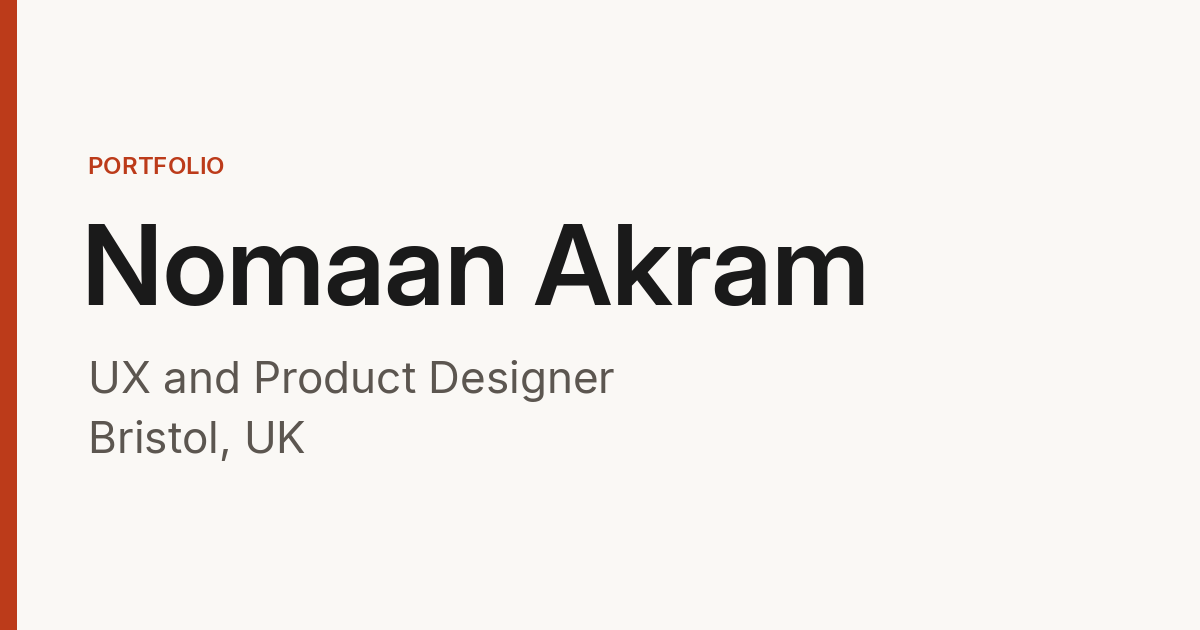
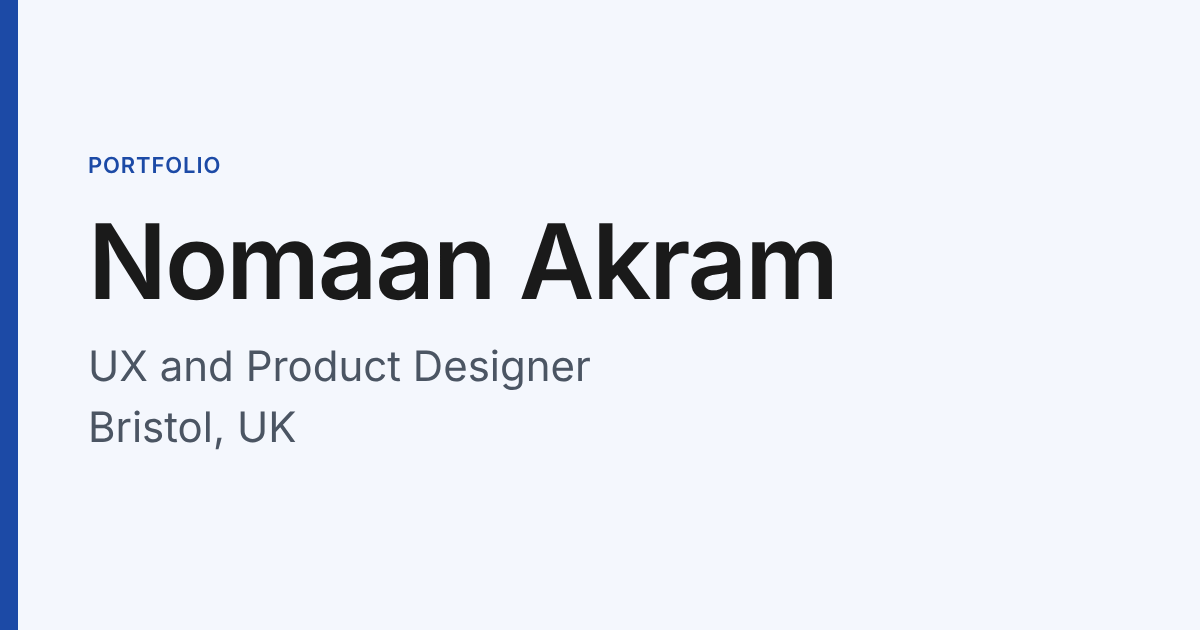
site-2-01: switch site palette from rust to blue

diff --git a/src/styles/tokens.css b/src/styles/tokens.css
@@ -1,15 +1,15 @@
 :root {
-  /* Colour */
+  /* Colour (blue, from the D2D app. Changed from rust in site-2-01) */
   --color-bg: #ffffff;
-  --color-surface: #faf8f5;        /* warm off-white for cards and sections */
-  --color-text: #1a1a1a;           /* 17.4:1 on bg */
-  --color-text-muted: #5c5650;     /* 7.24:1 on bg, 6.83:1 on surface */
-  --color-accent: #bc3b1a;         /* 5.56:1 on bg, 5.24:1 on surface */
-  --color-accent-strong: #9a2f14;  /* hover/active, 7.52:1 on bg */
-  --color-on-accent: #ffffff;      /* text on accent fill, 5.56:1 */
-  --color-border: #e5e1da;         /* decorative dividers only */
-  --color-border-strong: #8a847c;  /* UI boundaries that must be seen, 3.7:1 */
-  --color-focus: #bc3b1a;
+  --color-surface: #f4f7fd;        /* cool off-white for cards and sections */
+  --color-text: #1a1a1a;           /* 17.4:1 on bg, 16.2:1 on surface */
+  --color-text-muted: #4b5563;     /* 7.56:1 on bg, 7.05:1 on surface */
+  --color-accent: #1c4aa6;         /* 8.15:1 on bg, 7.59:1 on surface */
+  --color-accent-strong: #163b85;  /* hover/active, 10.5:1 on bg */
+  --color-on-accent: #ffffff;      /* text on accent fill, 8.15:1 */
+  --color-border: #dce3f0;         /* decorative dividers only */
+  --color-border-strong: #7c8597;  /* UI boundaries that must be seen, 3.7:1 on bg, 3.4:1 on surface */
+  --color-focus: #1c4aa6;
 
   /* Type */
   --font-sans: 'Inter', ui-sans-serif, system-ui, -apple-system, 'Segoe UI', Roboto, sans-serif;

diff --git a/docs/CLAUDE-HANDOFF.md b/docs/CLAUDE-HANDOFF.md
@@ -1,114 +1,84 @@
 # Handoff
 
-- **Item:** site-1-09
-- **Status:** done
+- **Item:** site-2-01
+- **Status:** partial
 - **Files:**
-  - `src/components/CaseStudyNav.astro` (created)
-  - `src/pages/work/canvasser.astro` (head script, toc attributes, `.cs-body`, page CSS)
-  - `src/styles/tokens.css` (appended `--toc-width: 12rem`)
+  - `src/styles/tokens.css` (colour block only)
+  - `public/favicon.svg`, `public/apple-touch-icon.png`, `public/og.png` (replaced with the supplied files)
+  - `docs/DECISIONS.md` (accent row, and the v2 GitHub banner line)
+  - `.cursor/rules/a11y.mdc` (accent contrast line)
   - `docs/BUILD-LOG.md`
   - `docs/CLAUDE-HANDOFF.md`
 - **Check results:**
-  1. pass. `npm run build` exited 0. No warnings.
-     ```
-     > portfolio@0.1.0 build
-     > astro build
-
-     19:34:53 [types] Generated 71ms
-     19:34:53 [build] output: "static"
-     19:34:53 [build] mode: "static"
-     19:34:53 [build] directory: C:\Users\nomaa\Documents\Portfolio Site - Build 2026\portfolio\dist\
-     19:34:53 [build] Collecting build info...
-     19:34:53 [build] ✓ Completed in 98ms.
-     19:34:53 [build] Building static entrypoints...
-     19:34:54 [vite] ✓ built in 309ms
-     19:34:54 [vite] ✓ built in 30ms
-     19:34:54 [build] Rearranging server assets...
-
-      generating static routes
-     19:34:54   ├─ /404.html (+18ms)
-     19:34:54   ├─ /work/canvasser/index.html (+19ms)
-     19:34:54   ├─ /index.html (+4ms)
-     19:34:54 ✓ Completed in 63ms.
-
-      generating optimized images
-     19:34:54   ▶ /_astro/logger-sketch.CNB7oIHW_Z4qU2V.webp (reused cache entry) (+3ms) (1/8)
-     19:34:54   ▶ /_astro/logger-interaction-model.DsO_tO56_ZOugQA.webp (reused cache entry) (+2ms) (2/8)
-     19:34:54   ▶ /_astro/logger-sketch.CNB7oIHW_2tPh1O.webp (reused cache entry) (+2ms) (3/8)
-     19:34:54   ▶ /_astro/logger-interaction-model.DsO_tO56_ZgYG5i.webp (reused cache entry) (+2ms) (4/8)
-     19:34:54   ▶ /_astro/logger-sketch.CNB7oIHW_Z3gmE8.webp (reused cache entry) (+1ms) (5/8)
-     19:34:54   ▶ /_astro/logger-interaction-model.DsO_tO56_TaIFG.webp (reused cache entry) (+2ms) (6/8)
-     19:34:54   ▶ /_astro/logger-interaction-model.DsO_tO56_ZuXzu9.webp (reused cache entry) (+1ms) (7/8)
-     19:34:54   ▶ /_astro/logger-interaction-model.DsO_tO56_1Bz6se.webp (reused cache entry) (+1ms) (8/8)
-     19:34:54 ✓ Completed in 10ms.
-
-     19:34:54 [build] ✓ Completed in 520ms.
-     19:34:54 [@astrojs/sitemap] `sitemap-index.xml` created at `dist`
-     19:34:54 [build] 3 page(s) built in 632ms
-     19:34:54 [build] Complete!
-     ```
+  1. pass. `npm run build` exited 0. No warnings. Re-run on 2026-11-11.
   2. pass. `git diff --stat -- package.json package-lock.json` printed nothing.
-  3. pass.
+  3. pass. Re-run on 2026-11-11. The only hit is the DECISIONS.md line that names the old rust on purpose. The dist grep printed nothing.
      ```
-     dist/index.html:0
-     dist/404.html:0
-     dist/work/canvasser/index.html:1
+     ===== CHECK 3a =====
+     docs/DECISIONS.md:12:| Accent | `#1C4AA6` (blue, from the D2D app). Changed from rust `#BC3B1A` in site-2-01. Light theme only |
+     EXIT3a:0
+     ===== CHECK 3b =====
+     EXIT3b:1
      ```
-  4. pass. Both greps printed nothing (exit 1, no matches).
-  5. pass. Preview at http://127.0.0.1:4322/work/canvasser/, 1280x800 then 1440x900.
-     - Load: `visibility: hidden`, `opacity: 0`, `inert: true`, `is-visible: false`. `html` class `toc-js`. `scroll-behavior: smooth`.
-     - h1: top 207.4, left 80, width 857.1, height 110.4. Stats: top 517.8, left 80, width 1120, height 135.2. Hero markup and CSS were not changed. The sidebar does not cover them.
-     - 300ms after the hero nav left the viewport (`heroBottom: -8`): `visibility: visible`, `opacity: 1`, `inert: false`.
-     - One visible `aria-current="location"` at each section, matching the section in the 30-40% band: tldr, context, problem, logger, routes, decisions, outcome, reflections.
-     - Decisions click: hash `#decisions`, `scroll-behavior: smooth` (scrollY moved across the sampled frames, 1184 to 6515). h2 "Five decisions, and what each one cost" top 154.38, in the viewport.
-     - Indicator and Decisions link, 1280: link top 302.39 height 44, indicator top 302.39 height 44. At 1440: both top 302.39, height 44.
-     - 1280: sidebar right 272, content left 320. 1440: sidebar right 352, content left 400.
-     - End actions in view: `visibility: hidden`, `opacity: 0`, `inert: true`.
-  6. pass. 390x763, 375x667, 430x850. Sidebar `display: none`. Sticky bar `position: sticky`, top 0, height 46, label updates through all 8 sections. Outcome click closes the list, hash `#outcome`, h2 top 106.83 / 106.52 / 106.03 against a bar bottom of 46. Escape closes it and focus returns to the summary. Every summary and link is at least 44px tall.
-  7. pass. Horizontal overflow 0 at 320, 375, 390, 430, 1280 and 1440, including with "The Knock Logger" in the bar and with the list open.
-  8. pass. With `prefers-reduced-motion: reduce`: `scroll-behavior: auto`. Sidebar and indicator `transition-duration: 1e-05s` (0.01ms).
-  9. pass. At scroll 0 the sidebar is `visibility: hidden` and `inert: true`. Tab reaches the hero nav (TL;DR through Reflections) and does not enter the sidebar. The next stop is "Back to all work". After the hero has scrolled away, sidebar links take focus with `outline: 2px solid rgb(188, 59, 26)`.
-  10. pass. JavaScript disabled. Desktop 1280: no `toc-js`, sidebar `display: none`, content padding 40px left and 40px right. The mobile bar opened and closed. At 390: sidebar `display: none`, padding 20px left and 20px right, bar opened and closed.
-  11. pass. Home `scroll-behavior: auto`, no `toc-js`. The 1280 viewport shows the same header, headline, lead, buttons and work heading as site-1-07. `index.astro` was not edited.
-  12. pass. `npx --yes lighthouse@12` exited 0 (`--quiet`, so the CLI printed nothing). Scores from the JSON reports:
+  4. pass. `grep -rnE "#[0-9a-fA-F]{3,6}\b" src --include=*.css --include=*.astro | grep -v tokens.css` printed nothing.
+  5. pass. `LC_ALL=C.UTF-8 grep -rnP "\x{2014}|\x{2013}" src` printed nothing.
+  6. pass. Re-run on 2026-11-11. Every line says PASS.
      ```
-     lh-canvasser-mobile
-     performance 100
-     accessibility 100
-     best-practices 100
-     seo 100
-     CLS 0
-
-     lh-canvasser-desktop
-     performance 100
-     accessibility 100
-     best-practices 100
-     seo 100
-     CLS 0
+     #1a1a1a on #ffffff: 17.40:1 (min 4.5) PASS
+     #1a1a1a on #f4f7fd: 16.22:1 (min 4.5) PASS
+     #4b5563 on #ffffff: 7.56:1 (min 4.5) PASS
+     #4b5563 on #f4f7fd: 7.04:1 (min 4.5) PASS
+     #1c4aa6 on #ffffff: 8.14:1 (min 4.5) PASS
+     #1c4aa6 on #f4f7fd: 7.59:1 (min 4.5) PASS
+     #163b85 on #ffffff: 10.51:1 (min 4.5) PASS
+     #ffffff on #1c4aa6: 8.14:1 (min 4.5) PASS
+     #ffffff on #163b85: 10.51:1 (min 4.5) PASS
+     #7c8597 on #ffffff: 3.71:1 (min 3) PASS
+     #7c8597 on #f4f7fd: 3.46:1 (min 3) PASS
      ```
-  13. pass. Screenshots below.
-  14. pass. `git status --short -uall` lists only the files in section 2. Raw output is at the bottom of this file, filled after the docs were written.
-
-- **Screenshots:**
-  - `Claude outputs/site-1-09/desktop-1280-top.png` (sidebar hidden)
-  - `Claude outputs/site-1-09/desktop-1280-mid.png` (sidebar visible on Decisions)
-  - `Claude outputs/site-1-09/desktop-1440-mid.png`
-  - `Claude outputs/site-1-09/mobile-390-bar-closed.png`
-  - `Claude outputs/site-1-09/mobile-390-bar-open.png`
-  - Lighthouse: `Claude outputs/site-1-09/lh-canvasser-mobile.report.html` and `.report.json`, `Claude outputs/site-1-09/lh-canvasser-desktop.report.html` and `.report.json`
-- **Deviations:** `CaseStudyNav.astro` is not the prompt script byte for byte.
-  - `aria-current="location"` is set only on the link in the nav that is actually shown, and reapplied when the 75rem breakpoint changes. The supplied loop set it on the mobile list and the sidebar together.
-  - Show and hide reads the hero nav and the end actions on scroll and resize. The supplied observer treated a hero nav still below the fold as already gone, so the sidebar covered the title at 1280x800. It also did not run when a jump moved that nav from below the screen to above it without the nav crossing the screen. That is what a long in-page jump does when motion is reduced.
-  - The page CSS from EDIT 3 was added as written. Astro scoped `section[id]` to this page, so it does not match `Section.astro` sections. Those keep `scroll-margin-top: 24px`. `#measurement` does get 68px. The Outcome h2 still lands below the bar.
+  7. pass. `cmp` of the three supplied assets against `public/` printed `assets identical`.
+  8. pass. Preview build at http://127.0.0.1:4322/, 1280x800. Computed values:
+     ```
+     footer body-copy link color: rgb(28, 74, 166)
+     primary .button background-color: rgb(28, 74, 166)
+     .eyebrow color: rgb(28, 74, 166)
+     primary .button hover background-color: rgb(22, 59, 133)
+     first project card, keyboard focus, article outline: rgb(28, 74, 166), 2px solid, offset 2px
+     section.section--surface#tldr background-color: rgb(244, 247, 253)
+     .callout border-left-color: rgb(28, 74, 166)
+     .toc-side__indicator background-color: rgb(28, 74, 166) (height 44, sidebar visible)
+     /404 h1: This page doesn't exist
+     /404 primary .button background-color: rgb(28, 74, 166)
+     GET /favicon.svg: 200, image/svg+xml
+     ```
+     The favicon SVG rect fill is `#1C4AA6`. Console errors: 0. Failed requests: 0.
+  9. partial. At 1280x800 on `/work/canvasser/`, h1 was top 207.4, left 80, width 857.1, height 110.4 and stats were top 517.8, left 80, width 1120, height 135.2. Those match the site-1-09 rects. Home and 390 positions were measured. The mask compare against the site-1-09 screenshots was not run.
+  10. pass. Horizontal overflow was 0 at 320, 375, 390, 430 and 1280 on `/`, `/work/canvasser/` and `/404`.
+  11. not run. No Lighthouse report was written, so there are no scores.
+  12. pass. Screenshots are in `Claude outputs/site-2-01/`: `home-1280.png`, `home-390.png`, `case-1280-mid.png`, `case-390.png`, `404-1280.png`.
+  13. pass, ignoring the owner's canvasser files. Raw `git status --short -uall`:
+     ```
+      M .cursor/rules/a11y.mdc
+      M docs/BUILD-LOG.md
+      M docs/CLAUDE-HANDOFF.md
+      M docs/DECISIONS.md
+      M public/apple-touch-icon.png
+      M public/favicon.svg
+      M public/og.png
+      M src/assets/canvasser/logger-interaction-model.png
+      M src/styles/tokens.css
+     ?? "src/assets/canvasser/Key flows.png"
+     ?? src/assets/canvasser/before-paper-survey.jpg
+     ?? src/assets/canvasser/decision-sharing-pill.png
+     ?? src/assets/canvasser/hero.png
+     ?? src/assets/canvasser/logger-figma-concepts.png
+     ?? src/assets/canvasser/logger-shipped.png
+     ?? src/assets/canvasser/outcome-dashboard.png
+     ?? src/assets/canvasser/routes-generated.png
+     ?? src/assets/canvasser/routes-walking-rules.png
+     ```
+     The eight site-2-01 paths are `M`. The canvasser paths are the owner's and were not edited.
+- **Screenshots:** `Claude outputs/site-2-01/home-1280.png`, `home-390.png`, `case-1280-mid.png`, `case-390.png`, `404-1280.png`
+- **Deviations:** Lighthouse was not completed, so check 11 has no scores. The home and 390 layout compare against the site-1-09 screenshots was not run. `case-1280-mid.png` shows the logger section with the sidebar visible. The contrast script rounds `#1c4aa6` on white to 8.14:1 and muted text on the surface to 7.04:1. Both pass the minimums. The supplied colours and assets were not changed.
 - **Open questions:** none
-- **Next item:** none (v1 polish)
-
-## Check 14 raw output
-
-```
- M docs/BUILD-LOG.md
- M docs/CLAUDE-HANDOFF.md
- M src/pages/work/canvasser.astro
- M src/styles/tokens.css
-?? src/components/CaseStudyNav.astro
-```
+- **Next item:** site-2-02 (image slots)

diff --git a/docs/BUILD-LOG.md b/docs/BUILD-LOG.md
@@ -47,3 +47,8 @@ Format:
 - Changed: src/components/CaseStudyNav.astro, src/pages/work/canvasser.astro, src/styles/tokens.css, docs/BUILD-LOG.md, docs/CLAUDE-HANDOFF.md
 - Checks: 1 pass, 2 pass, 3 pass, 4 pass, 5 pass, 6 pass, 7 pass, 8 pass, 9 pass, 10 pass, 11 pass, 12 pass, 13 pass, 14 pass
 - Notes: Lighthouse on /work/canvasser/ was Performance 100, Accessibility 100, Best Practices 100, SEO 100, mobile and desktop. CLS 0 on both. The supplied sidebar observer treated a hero nav that was still below the fold as already gone, so the sidebar covered the title at 1280x800, and a jump that skipped that nav never revealed the sidebar. The script now reads those rectangles on scroll. Astro scoped the new mobile `section[id]` rule to the page, so case-study sections keep a 24px scroll margin. The Outcome h2 still clears the 46px bar (h2 top about 106px).
+
+## site-2-01 · 2026-11-11 · partial
+- Changed: src/styles/tokens.css, public/favicon.svg, public/apple-touch-icon.png, public/og.png, docs/DECISIONS.md, .cursor/rules/a11y.mdc, docs/BUILD-LOG.md, docs/CLAUDE-HANDOFF.md
+- Checks: 1 pass, 2 pass, 3 pass, 4 pass, 5 pass, 6 pass, 7 pass, 8 pass, 9 partial, 10 pass, 11 not run, 12 pass, 13 pass
+- Notes: Re-ran checks 1, 3 and 6 on 2026-11-11. Build exited 0 with no warnings. The contrast script prints 8.14:1 and 7.04:1 where the token comments say 8.15 and 7.05. Every line is PASS. Case study h1 and stats at 1280x800 match the site-1-09 rects exactly. Home and 390 were measured, and the screenshot mask compare was not run. Lighthouse produced no reports and no scores. Check 13 also lists the owner's canvasser image files. Those were left untouched. Preview checks used the preview already serving http://127.0.0.1:4322/.

diff --git a/docs/DECISIONS.md b/docs/DECISIONS.md
@@ -9,7 +9,7 @@ Last updated: 2026-11-11
 | Stack | Astro, static output, plain CSS, no UI framework, no Tailwind |
 | Allowed dependencies | `astro`, `@astrojs/sitemap`. Nothing else without the owner's approval |
 | Fonts | Inter, self-hosted woff2 in `public/fonts/` (SIL OFL). No Google Fonts, no CDN |
-| Accent | `#BC3B1A` (rust). Light theme only in v1 |
+| Accent | `#1C4AA6` (blue, from the D2D app). Changed from rust `#BC3B1A` in site-2-01. Light theme only |
 | Contact | `mailto:nomaanakram4@gmail.com`, LinkedIn `https://www.linkedin.com/in/nomaan-akram-b35565223/`, GitHub `https://github.com/nomaan02` |
 | v1 pages | Home (positioning + project cards), Canvasser case study (condensed), CV PDF download |
 | Launch | Everything goes live together after QA (site-1-07). Deploy is site-1-08 |
@@ -25,4 +25,4 @@ Last updated: 2026-11-11
 - Privacy and content rules: see `.cursor/rules/copy-tone.mdc`.
 
 ## v2 (not now)
-Barclays write-up page, Looptech and Everlink pages, About page, 3D/motion reel, full 12-section case study, GitHub banner restyle to rust, custom domain.
+Barclays write-up page, Looptech and Everlink pages, About page, 3D/motion reel, full 12-section case study, GitHub banner restyle to blue, custom domain.
